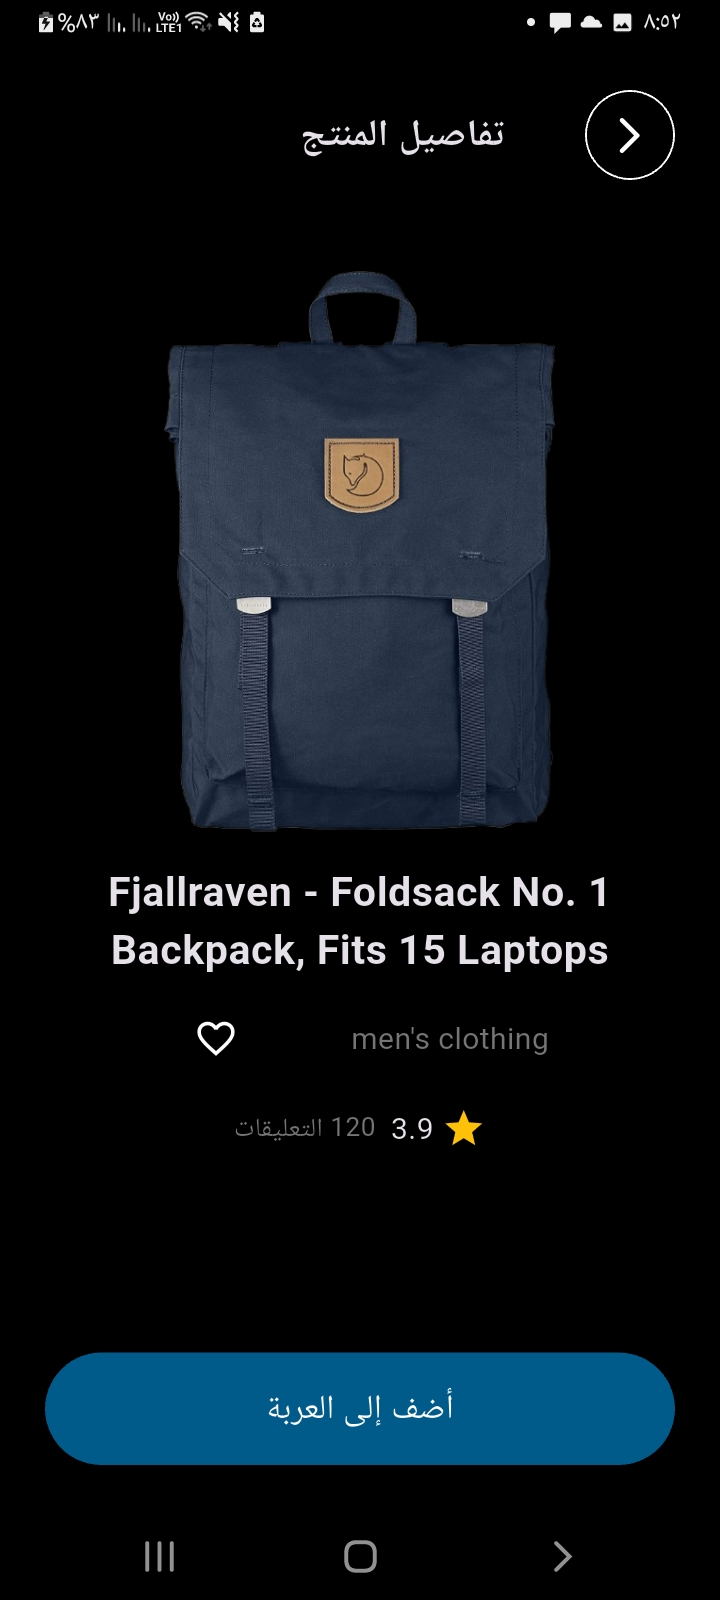
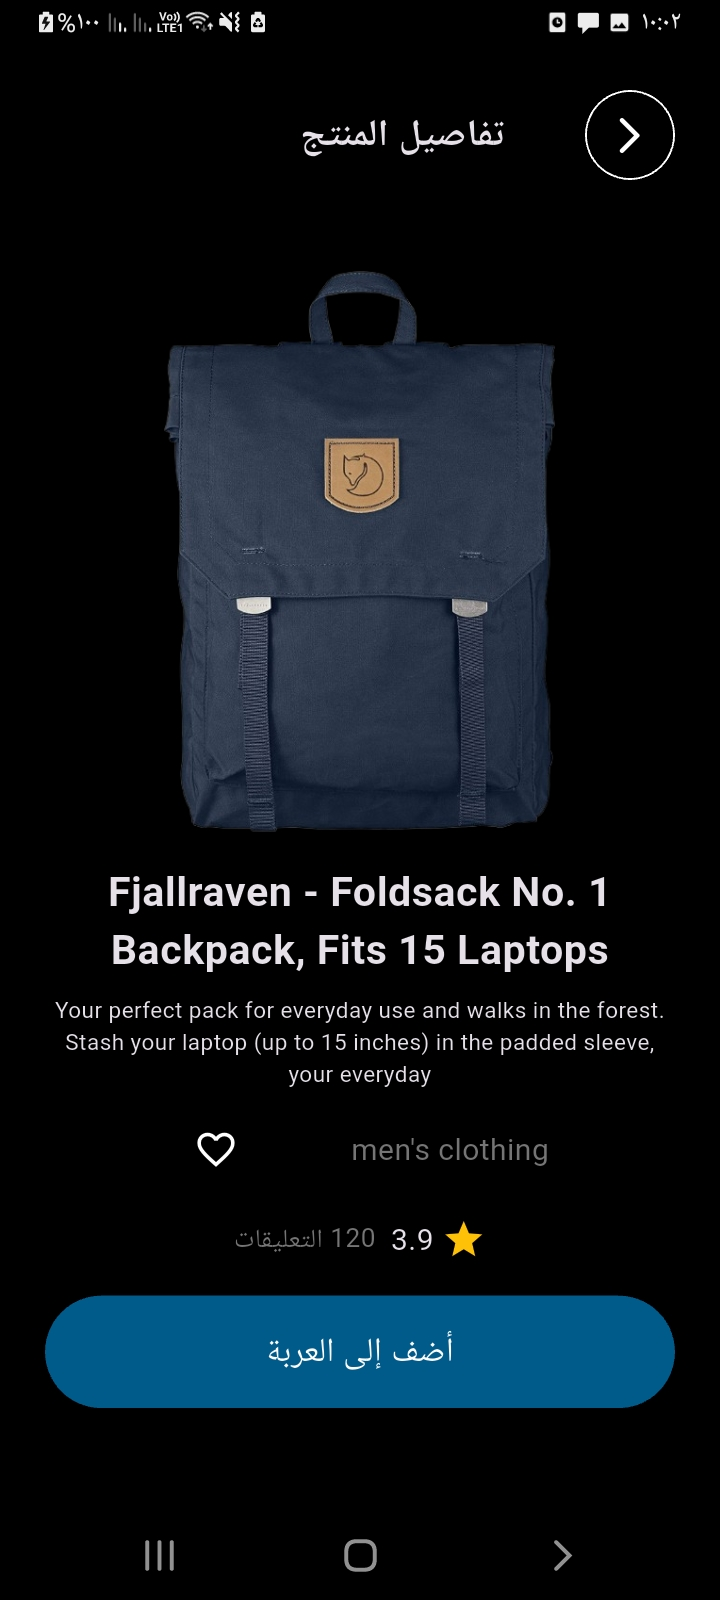
change some screens

diff --git a/lib/src/app/screens/product_details/product_details_screen.dart b/lib/src/app/screens/product_details/product_details_screen.dart
@@ -20,121 +20,129 @@ class ProductItemScreen extends ConsumerWidget {
     final loc = AppLocalizations.of(context)!;
 
     return Scaffold(
-
       body: Padding(
         padding: const EdgeInsets.all(24.0),
-        child: Column(
-          crossAxisAlignment: CrossAxisAlignment.center,
-          children: [
-            Container(
-              margin: EdgeInsets.only(top: 24, left: 6),
-              child: Row(
-                children: [
-                  GestureDetector(
-                    child: Container(
-                      padding: EdgeInsets.all(11),
-                      decoration: BoxDecoration(
-                        shape: BoxShape.circle,
-                        border: Border.all(
-                          color: AppColors.borderColor(context),
-                          width: 1,
+        child: SingleChildScrollView(
+          child: Column(
+            crossAxisAlignment: CrossAxisAlignment.center,
+            children: [
+              Container(
+                margin: EdgeInsets.only(top: 24, left: 6),
+                child: Row(
+                  children: [
+                    GestureDetector(
+                      child: Container(
+                        padding: EdgeInsets.all(11),
+                        decoration: BoxDecoration(
+                          shape: BoxShape.circle,
+                          border: Border.all(
+                            color: AppColors.borderColor(context),
+                            width: 1,
+                          ),
                         ),
+                        child: Icon(Icons.arrow_back_ios_rounded),
                       ),
-                      child: Icon(Icons.arrow_back_ios_rounded),
+                      onTap: () {
+                          Navigator.pop(context);
+                      },
                     ),
-                    onTap: () {
-                        Navigator.pop(context);
-                    },
-                  ),
-                  SizedBox(width: MediaQuery.of(context).size.width * 0.11,),
-                  Text(
-                    loc.productDetails,
-                    style: TextStyle(fontSize: 20, fontWeight: FontWeight.bold),
-                  ),
-                  Spacer(),
-                ],
+                    SizedBox(width: MediaQuery.of(context).size.width * 0.11,),
+                    Text(
+                      loc.productDetails,
+                      style: TextStyle(fontSize: 20, fontWeight: FontWeight.bold),
+                    ),
+                    const Spacer(),
+                  ],
+                ),
               ),
-            ),
-            Container(
-              margin: const EdgeInsets.all(24),
-              child: Row(
+              Container(
+                margin: const EdgeInsets.all(24),
+                child: Row(
+                  children: [
+                    SizedBox(width: MediaQuery.of(context).size.width * 0.1),
+                    const Spacer(),
+                  ],
+                ),
+              ),
+              Image.network(product.image, height: 300, fit: BoxFit.contain),
+              const SizedBox(height: 16),
+              Text(
+                product.title,
+                style: const TextStyle(fontSize: 22, fontWeight: FontWeight.bold),
+                textAlign: TextAlign.center,
+              ),
+              const SizedBox(height: 8),
+              Text(
+                product.description,
+                style: const TextStyle(fontSize: 12),
+                textAlign: TextAlign.center,
+              ),
+              const SizedBox(height: 8),
+              // Category + Favorite
+              Row(
+                mainAxisAlignment: MainAxisAlignment.center,
                 children: [
-                  SizedBox(width: MediaQuery.of(context).size.width * 0.1),
-                  const Spacer(),
+                  Text(
+                    product.category,
+                    style: TextStyle(fontSize: 16, color: Colors.grey[600]),
+                  ),
+                  const SizedBox(width: 48),
+                  IconButton(
+                    onPressed: () {
+                      ref.read(cartProvider.notifier).toggleFavorite(product, ref);
+                      ref.read(isFavoriteProvider.notifier).state = !isFavorite;
+                    },
+                    icon: Icon(
+                      isFavorite ? Icons.favorite : Icons.favorite_border,
+                      color: isFavorite
+                          ? Colors.red
+                          : Theme.of(context).iconTheme.color,
+                    ),
+                  ),
                 ],
               ),
-            ),
-            Image.network(product.image, height: 300, fit: BoxFit.contain),
-            const SizedBox(height: 16),
-            Text(
-              product.title,
-              style: const TextStyle(fontSize: 22, fontWeight: FontWeight.bold),
-              textAlign: TextAlign.center,
-            ),
-            const SizedBox(height: 8),
-            // Category + Favorite
-            Row(
-              mainAxisAlignment: MainAxisAlignment.center,
-              children: [
-                Text(
-                  product.category,
-                  style: TextStyle(fontSize: 16, color: Colors.grey[600]),
-                ),
-                const SizedBox(width: 48),
-                IconButton(
+              const SizedBox(height: 12),
+              // Rating & Count
+              Row(
+                mainAxisAlignment: MainAxisAlignment.center,
+                children: [
+                  const Icon(Icons.star, color: Colors.amber, size: 24),
+                  const SizedBox(width: 4),
+                  Text(
+                    "${product.rating.rate}",
+                    style: const TextStyle(fontSize: 16),
+                  ),
+                  const SizedBox(width: 8),
+                  Text(
+                    "${product.rating.count} ${loc.reviews}",
+                    style: TextStyle(color: Colors.grey[600]),
+                  ),
+                ],
+              ),
+              // const Spacer(),
+              const SizedBox(height: 18),
+              //Add to cart button
+              SizedBox(
+                width: double.infinity,
+                child: ElevatedButton(
                   onPressed: () {
-                    ref.read(cartProvider.notifier).toggleFavorite(product, ref);
-                    ref.read(isFavoriteProvider.notifier).state = !isFavorite;
+                    ref.read(cartProvider.notifier).addToCart(product, ref);
+                    ToastManager.showSuccess(context, loc.productAddedToCart);
+                    Navigator.pop(context);
                   },
-                  icon: Icon(
-                    isFavorite ? Icons.favorite : Icons.favorite_border,
-                    color: isFavorite
-                        ? Colors.red
-                        : Theme.of(context).iconTheme.color,
+                  style: ElevatedButton.styleFrom(
+                    backgroundColor: AppColors.buttonColor,
+                    foregroundColor: Colors.white,
+                    padding: const EdgeInsets.symmetric(vertical: 16),
+                  ),
+                  child: Text(
+                    loc.addToCart,
+                    style: const TextStyle(fontSize: 18),
                   ),
                 ),
-              ],
-            ),
-            const SizedBox(height: 12),
-            // Rating & Count
-            Row(
-              mainAxisAlignment: MainAxisAlignment.center,
-              children: [
-                const Icon(Icons.star, color: Colors.amber, size: 24),
-                const SizedBox(width: 4),
-                Text(
-                  "${product.rating.rate}",
-                  style: const TextStyle(fontSize: 16),
-                ),
-                const SizedBox(width: 8),
-                Text(
-                  "${product.rating.count} ${loc.reviews}",
-                  style: TextStyle(color: Colors.grey[600]),
-                ),
-              ],
-            ),
-            const Spacer(),
-            //Add to cart button
-            SizedBox(
-              width: double.infinity,
-              child: ElevatedButton(
-                onPressed: () {
-                  ref.read(cartProvider.notifier).addToCart(product, ref);
-                  ToastManager.showSuccess(context, loc.productAddedToCart);
-                  Navigator.pop(context);
-                },
-                style: ElevatedButton.styleFrom(
-                  backgroundColor: AppColors.buttonColor,
-                  foregroundColor: Colors.white,
-                  padding: const EdgeInsets.symmetric(vertical: 16),
-                ),
-                child: Text(
-                  loc.addToCart,
-                  style: const TextStyle(fontSize: 18),
-                ),
               ),
-            ),
-          ],
+            ],
+          ),
         ),
       ),
     );
